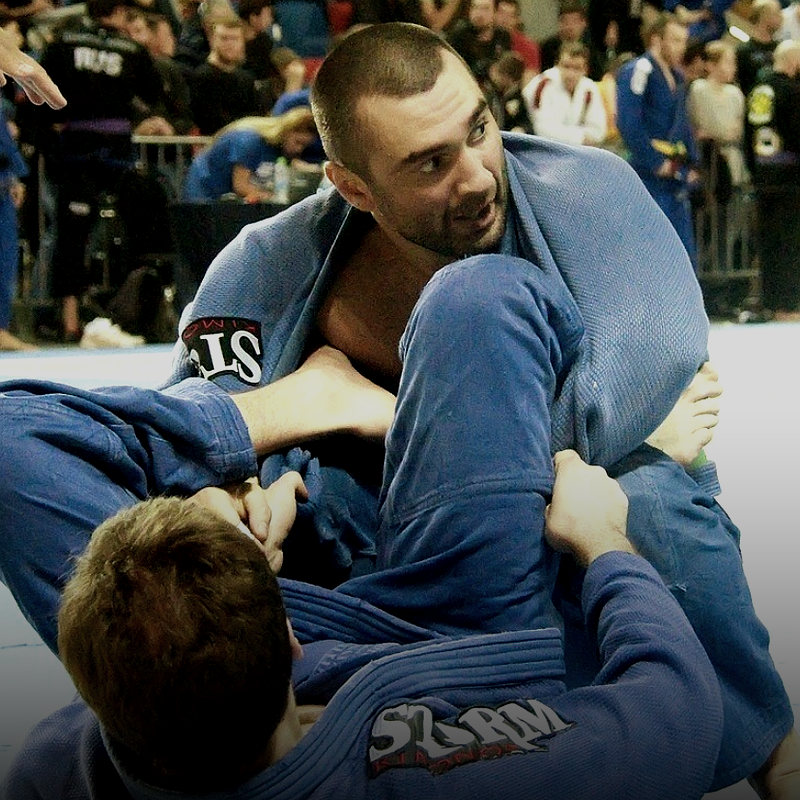
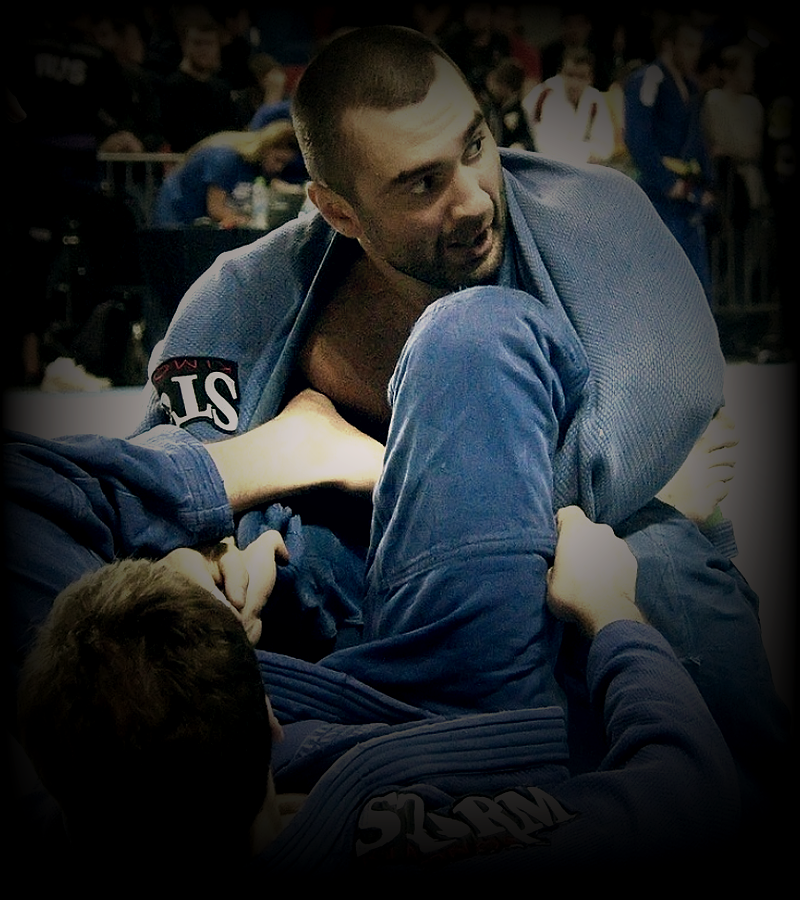
style: improved cinematic grade on real coach photo - deep shadows, split-tone, portrait ratio

diff --git a/styles.css b/styles.css
@@ -713,7 +713,7 @@ button, input, select, textarea {
   overflow: hidden;
   border: 1px solid var(--border-dark);
   box-shadow: var(--shadow-card);
-  aspect-ratio: 1 / 1;
+  aspect-ratio: 4 / 5;
 }
 
 .coach-img {
